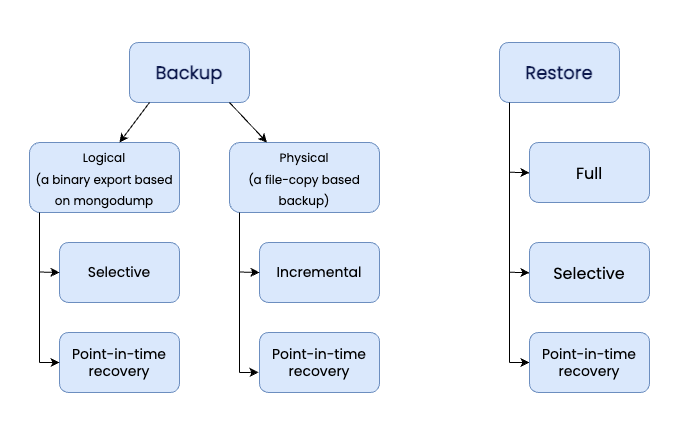
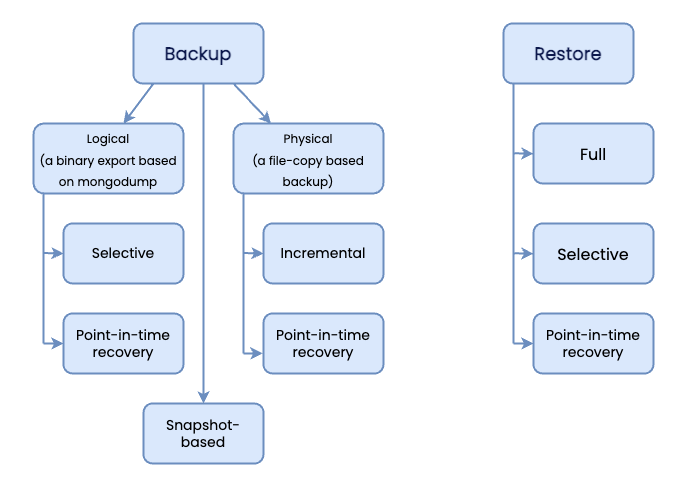
PBM-952 Documented EBS snapshots support
modified:   docs/_images/backups-infographic.png
	modified:   docs/features/backup-types.md
	new file:   docs/features/snapshots.md
	modified:   docs/index.md
	modified:   docs/reference/pbm-commands.md
	modified:   docs/usage/restore.md
	modified:   docs/usage/start-backup.md
	modified:   mkdocs-base.yml

diff --git a/docs/reference/pbm-commands.md b/docs/reference/pbm-commands.md
@@ -20,13 +20,15 @@ The command accepts the following flags:
 
 | Flag           | Description                                           |
 | -------------- | ----------------------------------------------------- |
-| `-t`, `--type` | The type of backup. Supported values: physical, logical (default), incremental. When not specified, Percona Backup for MongoDB makes a logical backup. <br> **NOTE**: Incremental physical backups is the [technical preview feature](glossary.md#technical-preview-feature).|
+| `-t`, `--type` | The type of backup. Supported values: physical, logical (default), incremental, [external](../features/snapshots.md). When not specified, Percona Backup for MongoDB makes a logical backup. |
 | `--base`       | For incremental backups only. Set the backup as the base and start tracking the incremental backup history to calculate and save the difference in data blocks for subsequent incremental backups. |  
 | `--compression`| Create a backup with compression. <br> Supported compression methods: `gzip`, `snappy`, `lz4`, `s2`, `pgzip`, `zstd`. Default: `s2` <br> The `none` value means no compression is done during backup. |
 | `--compression-level` | Configure the compression level from 0 to 10. The default value depends on the compression method used.  |
 | `-o`, `--out=text`    | Shows the output format as either plain text or a JSON object. Supported values: `text`, `json` |
 | `--wait`       | Wait for the backup to finish. The flag blocks the shell session.|
 | `--ns="database.collection"`| Backs up the specified namespace - the database and collection(s). To back up all collections in the database, specify the value in the `--ns="database.*"` format. In version 2.0.0, only a single namespace is supported for the backup.|
+| `-l`, `--list-files` | For external backups only. Shows the list of fines per node to copy.|
+
 
 ??? "JSON output"
 
@@ -36,6 +38,16 @@ The command accepts the following flags:
       "storage": "<my-backup-dir>"
     }
     ```
+
+## pbm backup-finish
+
+Closes the `backupCursor` and finishes the external backup. Must be run after running `pbm backup -t external`. To learn more, refer to [API for snapshot-based physical backups](../features/snapshots.md).
+
+The command has the following syntax:
+
+```{.bash data-prompt="$"}
+$ pbm backup-finish [backup-name] 
+```
 
 ## pbm cancel-backup
 
@@ -187,6 +199,7 @@ Provides the detailed information about a backup:
 - last transition time - the timestamp when a backup changed its status
 - cluster information: the replica set name, the backup status on this replica set, whether it is used as a config server replica set, last write timestamp
 - replica set info: name, backup status, last write timestamp and last transition time, `mongod` security options, if encryption is configured.
+- for snapshot-based backups, provides the list of files being copied
 
 The command has the following syntax:
 
@@ -197,6 +210,7 @@ $ pbm describe-backup [<backup-name>] [<flags>]
 | Flag                  | Description                           |
 | --------------------- | ------------------------------------- |
 | `-o`, `--out=text`    | Shows the status as either plain text or a JSON object. Supported values: `text`, `json`|
+| `-l`, `--list-files`  | Shows the list of files being copied for snapshot-based backups |
 
 ??? admonition "JSON output"
 
@@ -512,7 +526,7 @@ The command accepts the following flags:
 
 ## pbm restore
 
-Restores database from a specified backup / to a specified point in time. Depending on the backup type, makes either logical or physical restore.
+Restores database from a specified backup / to a specified point in time. Depending on the backup type, makes either logical, physical or a snapshot-based restore.
 
 The command has the following syntax:
 
@@ -526,12 +540,14 @@ The command accepts the following flags:
 
 | Flag                | Description                           |
 | ------------------- | ------------------------------------- |
+| `--external`        | Indicates the backup as the one made outside PBM (e.g. snapshot-based)       |
 | `--time=TIME`       | Restores the database to the specified point in time. Available for logical restores and if [Point-in-time recovery](../features/point-in-time-recovery.md) is enabled. |
 | `-w`                | Wait for the restore to finish. The flag blocks the shell session. |
 | `-o`, `--out=text`  | Shows the output format as either plain text or a JSON object. Supported values: `text`, `json` |
 | `--base-snapshot`   | Restores the database from a specified backup to the specified point in time. Without this flag, the most recent backup preceding the timestamp is used for point in recovery. Available in Percona Backup for MongoDB starting from version 1.6.0.|
 | `--replset-remapping`| Maps the replica set names for the data restore / oplog replay. The value format is `to_name_1=from_name_1,to_name_2=from_name_2`|
 | `--ns="database.collection"`| Restores the specified namespace(s) - databases and collections. To restore all collections in the database, specify the values as `--ns="database.*"`. The `--ns` flag accepts several namespaces as the comma-separated list. For example, ns="db1.*,db2.coll2,db3.coll1,db3.collX"|
+| `-c`                | The path to the `mongod.conf` file 
 
 ??? "Restore output"
 
@@ -550,6 +566,22 @@ The command accepts the following flags:
       "point-in-time":"<backup_name>"
     }
     ```
+## pbm restore-finish
+
+Instructs PBM to complete the snapshot-based physical restore. Must be run after running `pbm restore --external`. To learn more, refer to [API for snapshot-based physical backups](../features/snapshots.md).
+
+The command has the following syntax:
+
+```{.bash data-prompt="$"}
+$ pbm restore-finish <restore_name> [flags]
+```
+
+The command accepts the following flags:
+
+| Flag                | Description                           |
+| ------------------- | ------------------------------------- |
+| `-c`                | The path to the PBM configuration file. Required to complete the restore.|
+
 
 ## pbm status
 
@@ -659,5 +691,3 @@ The command accepts the following flags:
     }
     ```
 
-
-[^1]: Tech Preview Features are not yet ready for enterprise use and are not included in support via SLA. They are included in this release so that users can provide feedback prior to the full release of the feature in a future GA release (or removal of the feature if it is deemed not useful). This functionality can change (APIs, CLIs, etc.) from tech preview to GA.

diff --git a/docs/features/snapshots.md b/docs/features/snapshots.md
@@ -1,0 +1,78 @@
+# API for snapshot-based physical backups
+
+!!! admonition "Version added: [2.2.0](../release-notes/2.2.0.md)"
+
+## Considerations 
+
+1. This is a [technical preview feature](../reference/glossary.md#technical-preview-feature).
+2. Supported only for full physical backups
+3. Available only for Percona Backup for MongoDB running with Percona Server for MongoDB as PBM uses the [`$backupCursor and $backupCursorExtended aggregation stages`](https://docs.percona.com/percona-server-for-mongodb/6.0/backup-cursor.html). 
+
+While a physical backup is a physical copy of your data directory, a snapshot is a point in time copy of your disk or a volume where the data files are stored. Restoring from snapshots is much faster and allows almost immediate access to data, while the database is unavailable during physical restore. Snapshot-based backups are especially useful for owners of large data sets with terabytes of data. Yet the snapshots don’t guarantee data consistency in sharded clusters.
+
+This is where Percona Backup for MongoDB steps in. It provides the API to make snapshot-based physical backups and restores and ensures data consistency. As a result, database owners benefit from increased performance and reduced downtime, and are sure that their data remains consistent.
+
+The snapshot-based physical backup / restore flow is divided into three distinct stages:
+
+- Preparing the database – done by PBM
+- Copying files – done by the user / client application
+- Completing the backup / restore – done by PBM. 
+
+This is the first stage of the snapshot-based backups where you can make them manually using the API. Automated snapshot-based backups are planned for future releases.
+
+## Make a backup
+
+Before you start:
+
+1. [Install](../installation.md) and [set up Percona Backup for MongoDB](../install/initial-setup.md)
+2. Check that `pbm agent` is running with the [`pbm status`](../reference/pbm-commands.md#pbm-status) command
+
+To make a snapshot-based backup, specify its type as external for [`pbm backup`](../reference/pbm-commands.md#pbm-backup) command:
+
+```{.bash data-prompt="$"}
+$ pbm backup -t external --list-files
+```
+
+PBM opens the `$backupCursor`, stores the backup metadata, prepares the database for file copy and prints the prompt similar to the following:
+
+```{.text .no-copy}
+Ready to copy data from:
+<node-list>
+```
+
+You also see the backup name and the list of files to copy from each node. 
+
+At this stage you can copy files to the storage / make a snapshot using the technology of your choice.
+
+To check the backup progress, run the [`pbm describe-backup`](../reference/pbm-commands.md#pbm-describe-backup) to check the backup state and what nodes are running backup.
+
+After the file copy, run the following command to close the `$backupCursor` and complete the backup: 
+
+```{.bash data-prompt="$"}
+$ pbm backup-finish <backup_name>
+```
+
+## Restore a backup
+
+To make a restore, run the following command:
+
+```{.bash data-prompt="$"}
+$ pbm restore [backup_name] --external 
+```
+
+Percona Backup for MongoDB prepares the database, provides the restore name and prompts you to copy the data:
+
+```{.text .no-copy}
+<example goes here>
+``` 
+
+Note that you must **copy the data on every node of the replica set / sharded cluster**. 
+
+After you copied the files to the nodes, complete the restore with the following command:
+
+```{.bash data-prompt="$"}
+$ pbm restore-finish <restore_name> -c </path/to/pbm.conf.yaml>
+```
+
+At this stage PBM maintains data consistency and starts the cluster / replica set.
+

diff --git a/docs/index.md b/docs/index.md
@@ -12,16 +12,18 @@ With Percona Backup for MongoDB, you can make backups on a running server and re
 
 ## What you can do
 
-![image](_images/backups-infographic.png#only-light)
-![image](_images/backups-infographic-dark.png#only-dark)
+![image](_images/backups-infographic.png)
+
 
 * [Logical backups](features/logical.md) to back up and / or migrate data to different platforms and database versions
 * [Physical backups](features/physical.md) to speed up performance for large (multi-terabyte) data sets
 * [Selective backups](features/selective-backup.md) to work with the desired data set
 * [Incremental physical backups](features/incremental-backup.md) to ensure that critical data is regularly backed up and to save on costs for storage and transfer
+* [Snapshot-based physical backups](snapshots.md) using the technology of your choice.
 * [Restore the full database or specific data set](usage/restore.md) from a backup
 * [Restore the database to a specific point in time](features/point-in-time-recovery.md)
 * [Replay oplog](usage/oplog-replay.md) on top of [EBS-snapshots](reference/glossary.md#ebs-snapshot)
+
 
 [Explore features](features/backup-types.md){ .md-button .md-button }
 

diff --git a/docs/features/backup-types.md b/docs/features/backup-types.md
@@ -9,5 +9,6 @@ You can use several types of database backups and restores to develop your backu
 | [Selective](selective-backup.md) | [Tech preview](../reference/glossary.md#technical-preview-feature)| 2.0.0         | Sharded clusters (starting with version 2.0.3) and non-sharded replica sets. Sharded collections are not yet supported. | Yes | Yes | 
 | [Incremental](incremental-backup.md) | GA | 2.1.0 (Supported for PSMDB versions 4.2.24-24, 4.4.18-18, 5.0.2-1, 6.0.2-1 and higher) | Sharded clusters and non-sharded replica sets | Yes  | No |  
 | [Point-in-time recovery](point-in-time-recovery.md) | GA (automatic for logical backups, manual for physical backups) | 1.3.0   | Sharded clusters and non-sharded replica sets | Yes | Yes | 
+| [Snapshot-based](snapshots.md) | Tech preview](../reference/glossary.md#technical-preview-feature) | 2.2.0 | Sharded clusters and non-sharded replica sets | Yes | No | 
 
 

diff --git a/docs/usage/restore.md b/docs/usage/restore.md
@@ -52,6 +52,7 @@ To restore a backup, use the [`pbm restore`](../reference/pbm-commands.md#pbm-re
 
     Before you start, shut down all `mongos` nodes as the database won’t be available while the restore is in progress.
 
+
 ## Restore a database
 
 === "Logical"
@@ -248,6 +249,11 @@ To restore a backup, use the [`pbm restore`](../reference/pbm-commands.md#pbm-re
     2. Resync the backup list from the storage. 
     3. Start the balancer and the `mongos` node.
     4. As the general recommendation, make a new base backup to renew the starting point for subsequent incremental backups.
+
+=== "Snapshot-based"
+
+     See [snapshot-based backups](../features/snapshots.md#restore-a-backup).
+
 
 ## Restoring a backup into a new environment
 

diff --git a/docs/usage/start-backup.md b/docs/usage/start-backup.md
@@ -83,6 +83,12 @@
         2022-11-24T14:45:53Z 220.13GB <incremental, base> [restore_to_time: 2022-11-24T14:45:55Z]
     ```
 
+=== "Snapshot-based"
+
+    See [snapshot-based backups](../features/snapshots.md#make-a-backup).
+
+
+
 ### Compressed backups
 
 By default, Percona Backup for MongoDB uses the `s2` compression method when making a backup.
